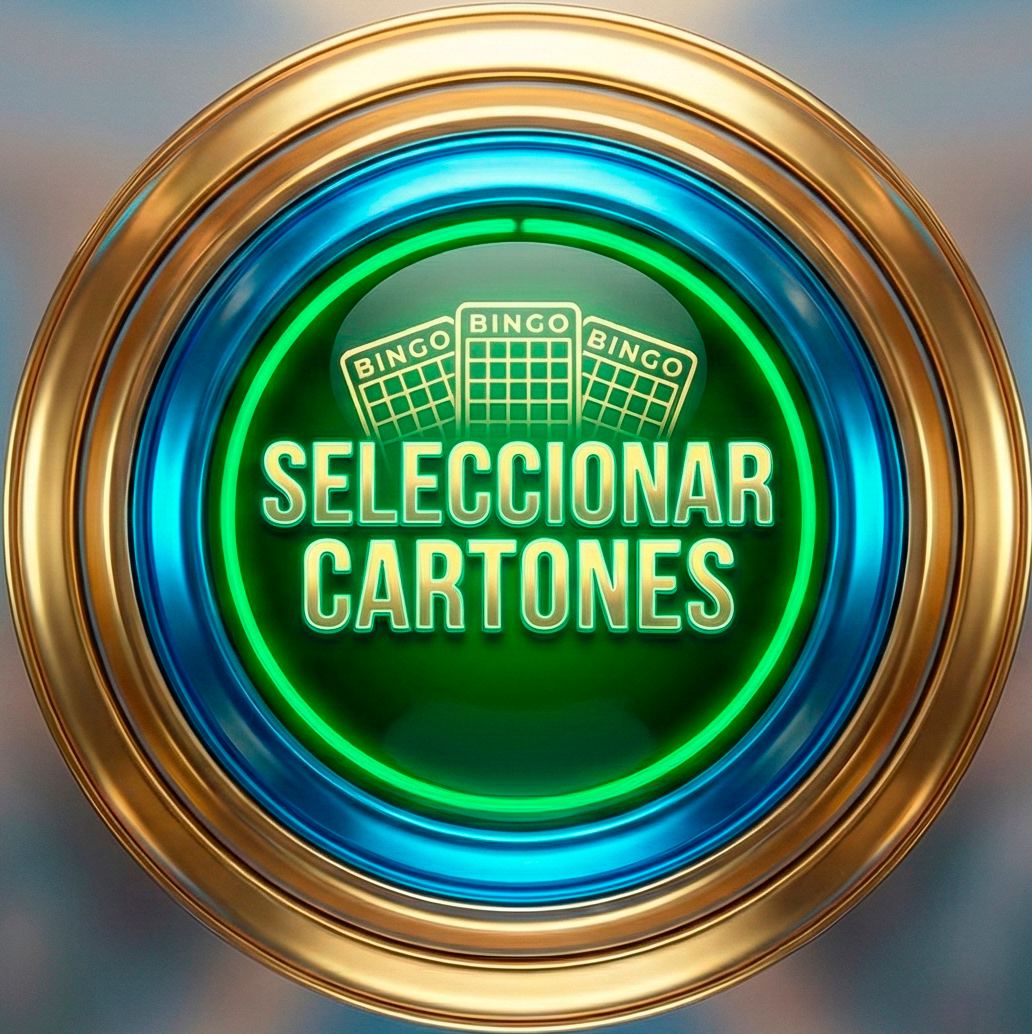
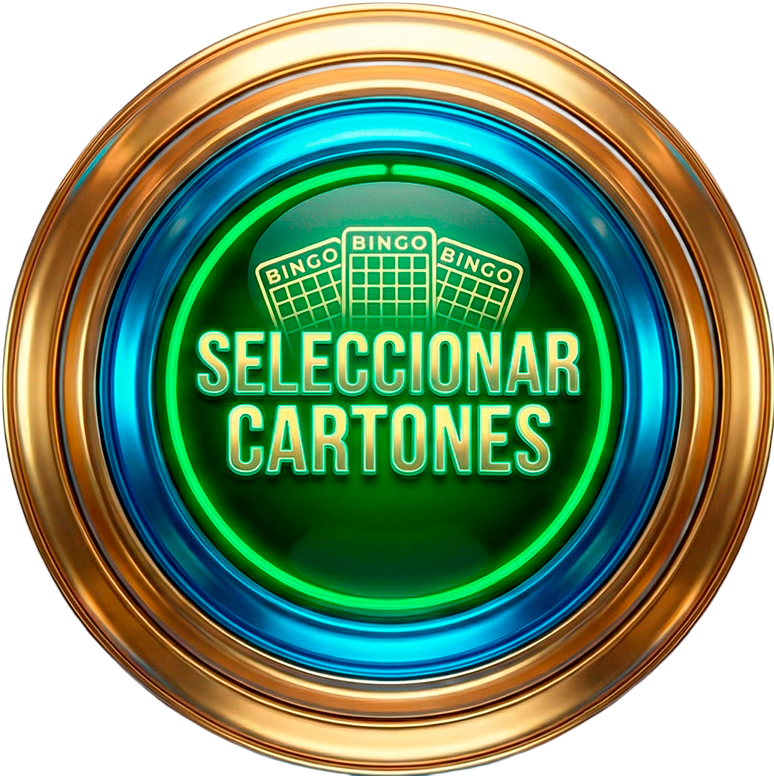
feat: mover botón PNG hacia abajo en bolillero y contador fuera del círculo

diff --git a/client-player/src/components/StarterRoom.jsx b/client-player/src/components/StarterRoom.jsx
@@ -713,12 +713,6 @@ useEffect(() => {
                     className="sphere-btn-image"
                   />
                 </button>
-                <div className="sphere-btn-counter">
-                  <div className="counter-line top-line"></div>
-                  <div className="counter-number">{cardsRemaining}</div>
-                  <div className="counter-line bottom-line"></div>
-                  <div className="counter-label">Cartones Disponibles</div>
-                </div>
               </div>
             )}
 
@@ -730,6 +724,16 @@ useEffect(() => {
               </div>
             )}
           </div>
+
+          {/* Contador de Cartones - Fuera del círculo */}
+          {gameStatus === 'waiting' && cardsRemaining > 0 && (
+            <div className="external-counter">
+              <div className="counter-line top-line"></div>
+              <div className="counter-number">{cardsRemaining}</div>
+              <div className="counter-line bottom-line"></div>
+              <div className="counter-label">Cartones Disponibles</div>
+            </div>
+          )}
 
           <div className="machine-base">
             <div className="base-panel"></div>

diff --git a/client-player/src/styles/StarterRoom.css b/client-player/src/styles/StarterRoom.css
@@ -1440,9 +1440,8 @@
   display: flex;
   flex-direction: column;
   align-items: center;
-  justify-content: center;
-  gap: 15px;
-  padding: 20px;
+  justify-content: flex-end;
+  padding: 0 20px 40px 20px;
   animation: sphere-pulse 2s ease-in-out infinite;
 }
 
@@ -1480,7 +1479,7 @@
 }
 
 .sphere-btn-image {
-  width: 220px;
+  width: 200px;
   height: auto;
   max-width: 100%;
   display: block;
@@ -1492,7 +1491,23 @@
   50% { transform: translateY(-10px); }
 }
 
-/* Contador de Cartones Disponibles */
+/* Contador de Cartones Disponibles - EXTERNO */
+.external-counter {
+  display: flex;
+  flex-direction: column;
+  align-items: center;
+  gap: 8px;
+  margin-top: 15px;
+  margin-bottom: 10px;
+  animation: counter-float 3s ease-in-out infinite;
+}
+
+@keyframes counter-float {
+  0%, 100% { transform: translateY(0); }
+  50% { transform: translateY(-5px); }
+}
+
+/* Contador VIEJO dentro del círculo - mantener por compatibilidad */
 .sphere-btn-counter {
   display: flex;
   flex-direction: column;
